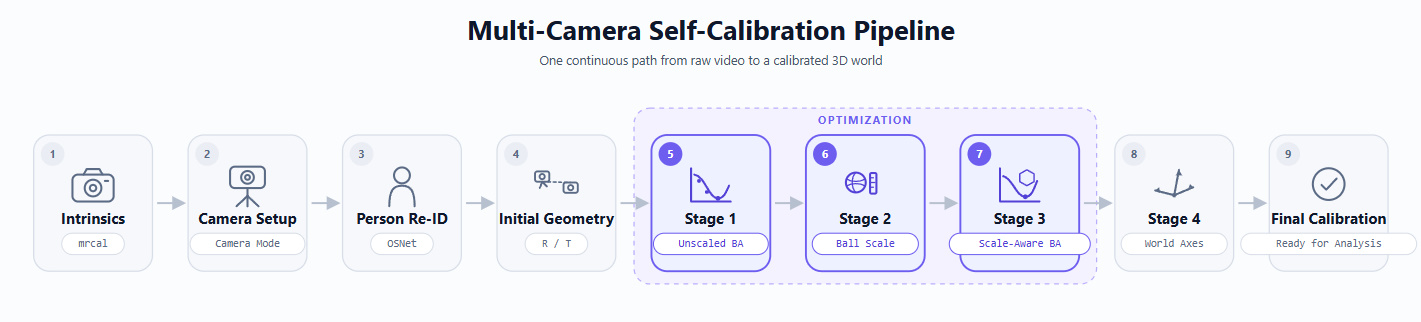
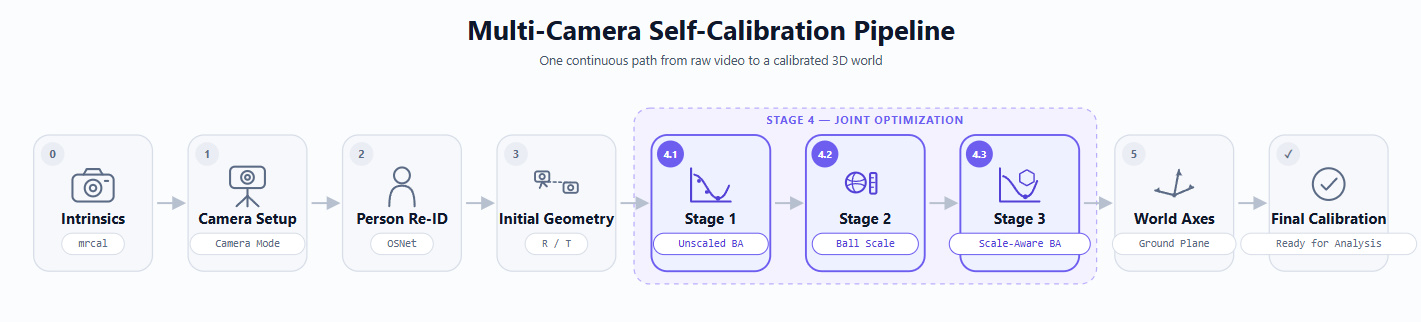
update stages name + add HF demo

diff --git a/README.md b/README.md
@@ -6,6 +6,10 @@ This project reconstructs a **metric 3D scene from multiple ordinary, static cam
 
 The current experimental scene involves a football/soccer player and a ball, captured by two static cameras. This is the **observation source**, not the deliverable: the player's body and the ball supply the correspondences and metric reference the calibration math needs. The output is multi-camera calibration + 3D reconstruction infrastructure, meant to sit underneath a separate, downstream analysis layer.
 
+## Live Demo
+
+[Try the live demo on Hugging Face](https://huggingface.co/spaces/abdelkader9090/analysis)
+
 ## The Problem
 
 Reconstructing accurate 3D geometry from multiple cameras requires knowing, for every camera:
